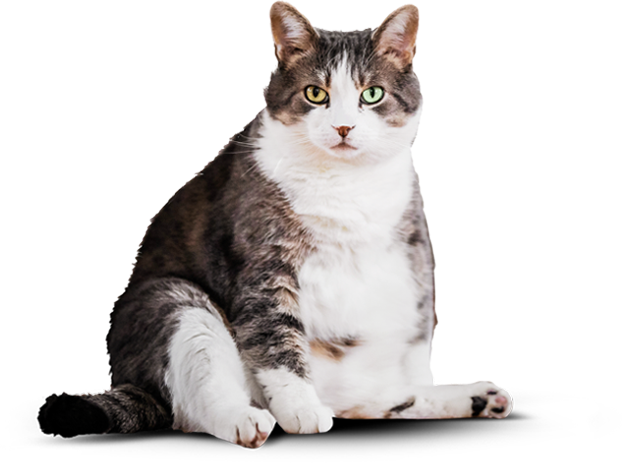
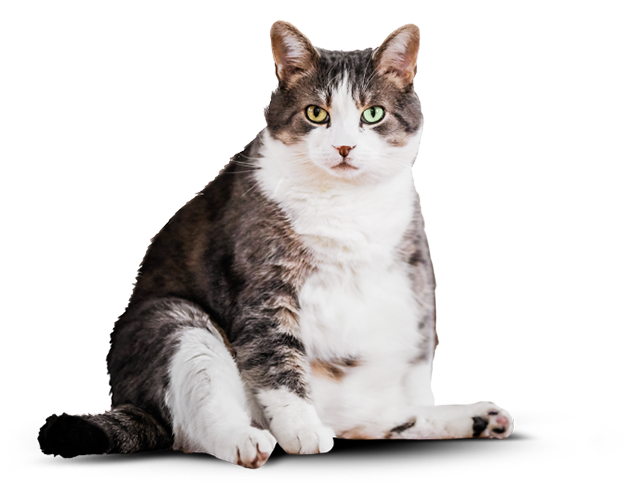
Размещает изображения в слайдере

Changed region(s): [[0.0611, 0.0, 0.8553, 0.9655], [0.6109, 0.3319, 0.7026, 0.7845]]

diff --git a/source/index.html b/source/index.html
@@ -176,29 +176,33 @@
           </div>
           <div class="example__slider">
             <div class="example__slider-images">
-              <picture>
-                <source type="image/webp" media="(min-width: 768px)"
-                  srcset="img/slider/webp/cat-fat-tablet.webp 1x, img/slider/webp/cat-fat-tablet@2x.webp 2x">
-                <source type="image/webp"
-                  srcset="img/slider/webp/cat-fat-mobile.webp 1x, img/slider/webp/cat-fat-mobile@2x.webp 2x">
+              <div class="example__slide example__slide--before">
+                <picture>
+                  <source type="image/webp" media="(min-width: 768px)"
+                    srcset="img/slider/webp/cat-fat-tablet.webp 1x, img/slider/webp/cat-fat-tablet@2x.webp 2x">
+                  <source type="image/webp"
+                    srcset="img/slider/webp/cat-fat-mobile.webp 1x, img/slider/webp/cat-fat-mobile@2x.webp 2x">
 
-                <source media="(min-width: 768px)"
-                  srcset="img/slider/cat-fat-tablet.png 1x, img/slider/cat-fat-tablet@2x.png 2x">
-                <img class="example__image example__image--before" src="img/slider/cat-fat-mobile.png"
-                  srcset="img/slider/cat-fat-mobile@2x.png 2x" alt="Упитанный кот до приема Energy cat">
-              </picture>
+                  <source media="(min-width: 768px)"
+                    srcset="img/slider/cat-fat-tablet.png 1x, img/slider/cat-fat-tablet@2x.png 2x">
+                  <img class="example__image example__image--before" src="img/slider/cat-fat-mobile.png"
+                    srcset="img/slider/cat-fat-mobile@2x.png 2x" alt="Упитанный кот до приема Energy cat">
+                </picture>
+              </div>
 
-              <picture>
-                <source type="image/webp" media="(min-width: 768px)"
-                  srcset="img/slider/webp/cat-skinny-tablet.webp 1x, img/slider/cat-skinny-tablet@2x.webp 2x">
-                <source type="image/webp"
-                  srcset="img/slider/webp/cat-skinny-mobile.webp 1x, img/slider/cat-skinny-mobile@2x.webp 2x">
+              <div class="example__slide example__slide--after">
+                <picture>
+                  <source type="image/webp" media="(min-width: 768px)"
+                    srcset="img/slider/webp/cat-skinny-tablet.webp 1x, img/slider/cat-skinny-tablet@2x.webp 2x">
+                  <source type="image/webp"
+                    srcset="img/slider/webp/cat-skinny-mobile.webp 1x, img/slider/cat-skinny-mobile@2x.webp 2x">
 
-                <source media="(min-width: 768px)"
-                  srcset="img/slider/cat-skinny-tablet.png 1x, img/slider/cat-skinny-tablet@2x.png 2x">
-                <img class="example__image example__image--after" src="img/slider/cat-skinny-mobile.png"
-                  srcset="img/slider/cat-skinny-mobile@2x.png 2x" alt="Худой кот после приема Energy cat">
-              </picture>
+                  <source media="(min-width: 768px)"
+                    srcset="img/slider/cat-skinny-tablet.png 1x, img/slider/cat-skinny-tablet@2x.png 2x">
+                  <img class="example__image example__image--after" src="img/slider/cat-skinny-mobile.png"
+                    srcset="img/slider/cat-skinny-mobile@2x.png 2x" alt="Худой кот после приема Energy cat">
+                </picture>
+              </div>
 
             </div>
             <div class="example__slider-control">

diff --git a/source/sass/blocks/example.scss b/source/sass/blocks/example.scss
@@ -222,38 +222,72 @@
 }
 
 .example__slider-images {
-  margin-bottom: 20px;
-  margin-left: -20px;
-  text-align: center;
+  position: relative;
+  height: 242px;
+  margin-bottom: 22px;
+  margin-left: auto;
+  margin-right: auto;
 
   @media (min-width: $tablet-width) {
-    margin-bottom: 5px;
-    margin-left: 0;
+    margin-bottom: 10px;
+    height: 520px;
   }
 
   @media (min-width: $desktop-width) {
-    margin-bottom: 26px;
-    margin-left: -80px;
+    margin-bottom: 32px;
+  }
+}
+
+.example__slide {
+  position: absolute;
+  top: 0;
+  left: 0;
+  right: 0;
+  bottom: 0;
+
+  &--before {
+    clip-path: inset(0 50% 0 -80px);
+  }
+
+  &--after {
+    clip-path: inset(0 0 0 50%);
   }
 }
 
 .example__image {
-  &--before {
-    width: auto;
-    height: 232px;
+  position: absolute;
+  left: 50%;
+  top: 0;
+  width: auto;
+  height: 242px;
+  transform: translateX(-50%);
 
-    @media (min-width: $tablet-width) {
-      height: 520px;
+  @media (min-width: $tablet-width) {
+    height: 520px;
+  }
+
+  &--before {
+    transform: translateX(calc(-50% - 2px));
+
+    @media(min-width: $tablet-width) {
+      transform: translateX(-50%);
+    }
+
+    @media (min-width: $desktop-width) {
+      transform: translateX(calc(-50% - 26px));
     }
   }
 
   &--after {
-    width: auto;
-    height: 240px;
-  }
+    transform: translateX(calc(-50% + 9px));
 
-  @media (min-width: $tablet-width) {
-    height: 520px;
+    @media(min-width: $tablet-width) {
+      transform: translateX(calc(-50% + 25px));
+    }
+
+    @media(min-width: $desktop-width) {
+      transform: translateX(-50%);
+    }
   }
 }
 
